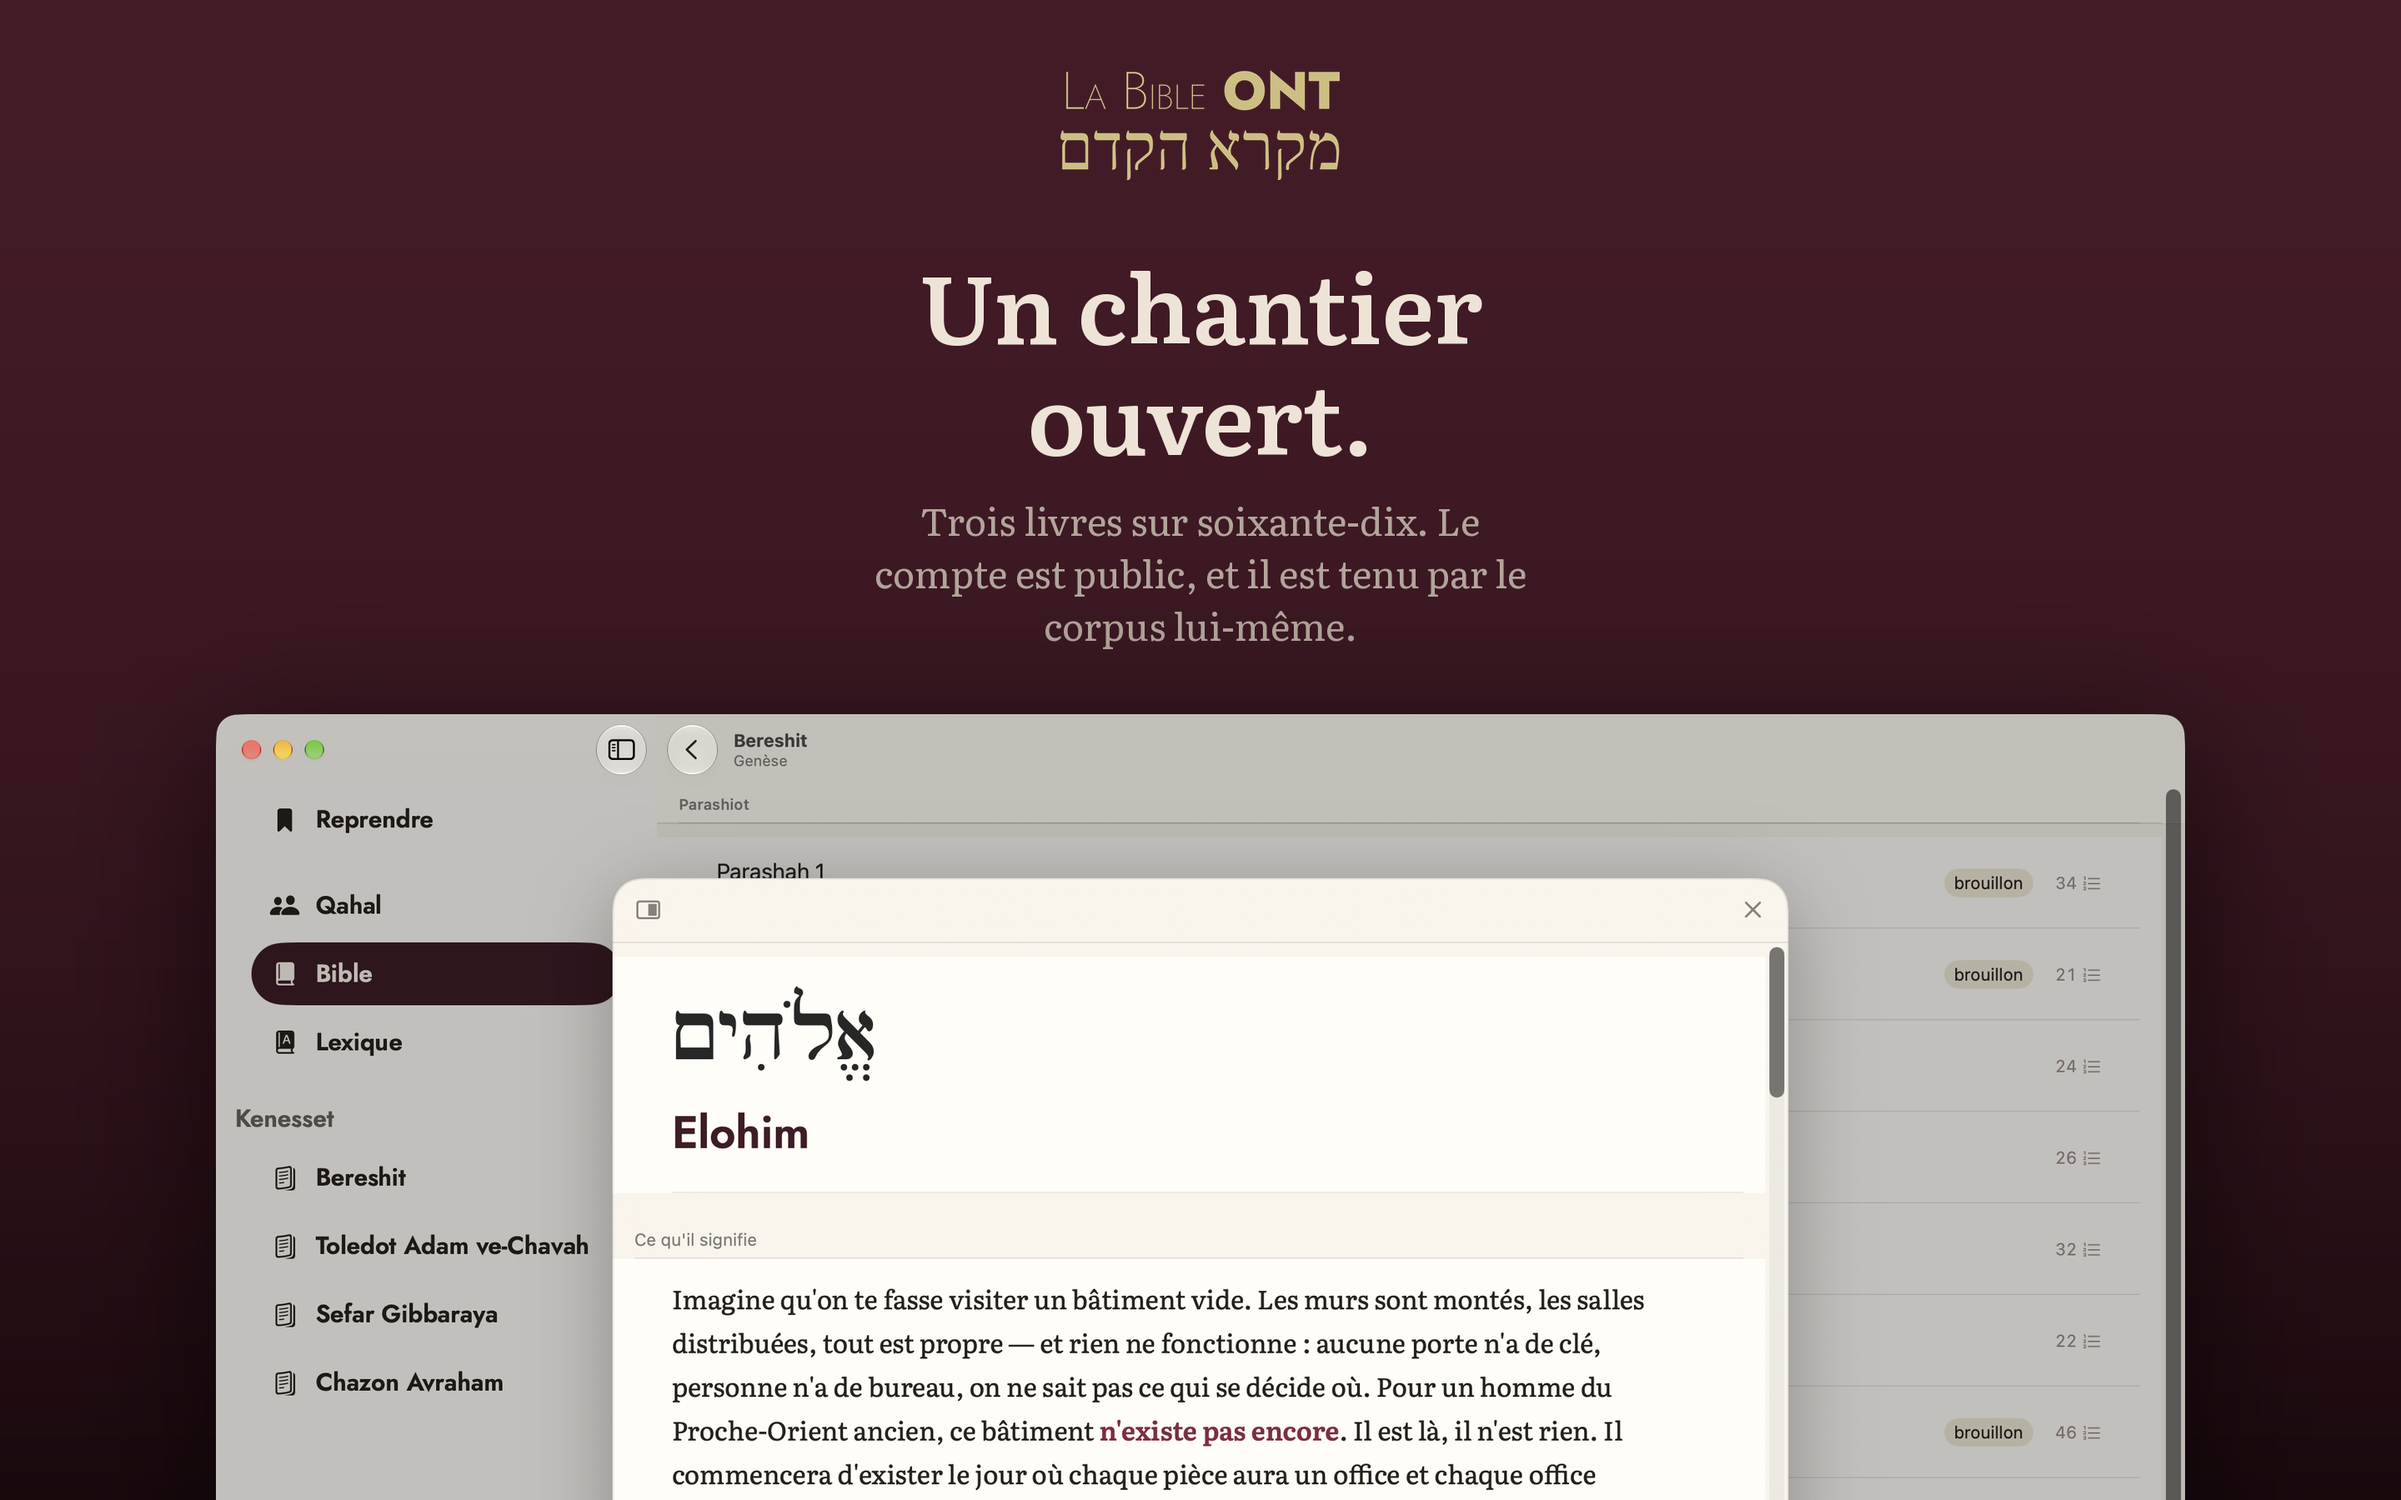
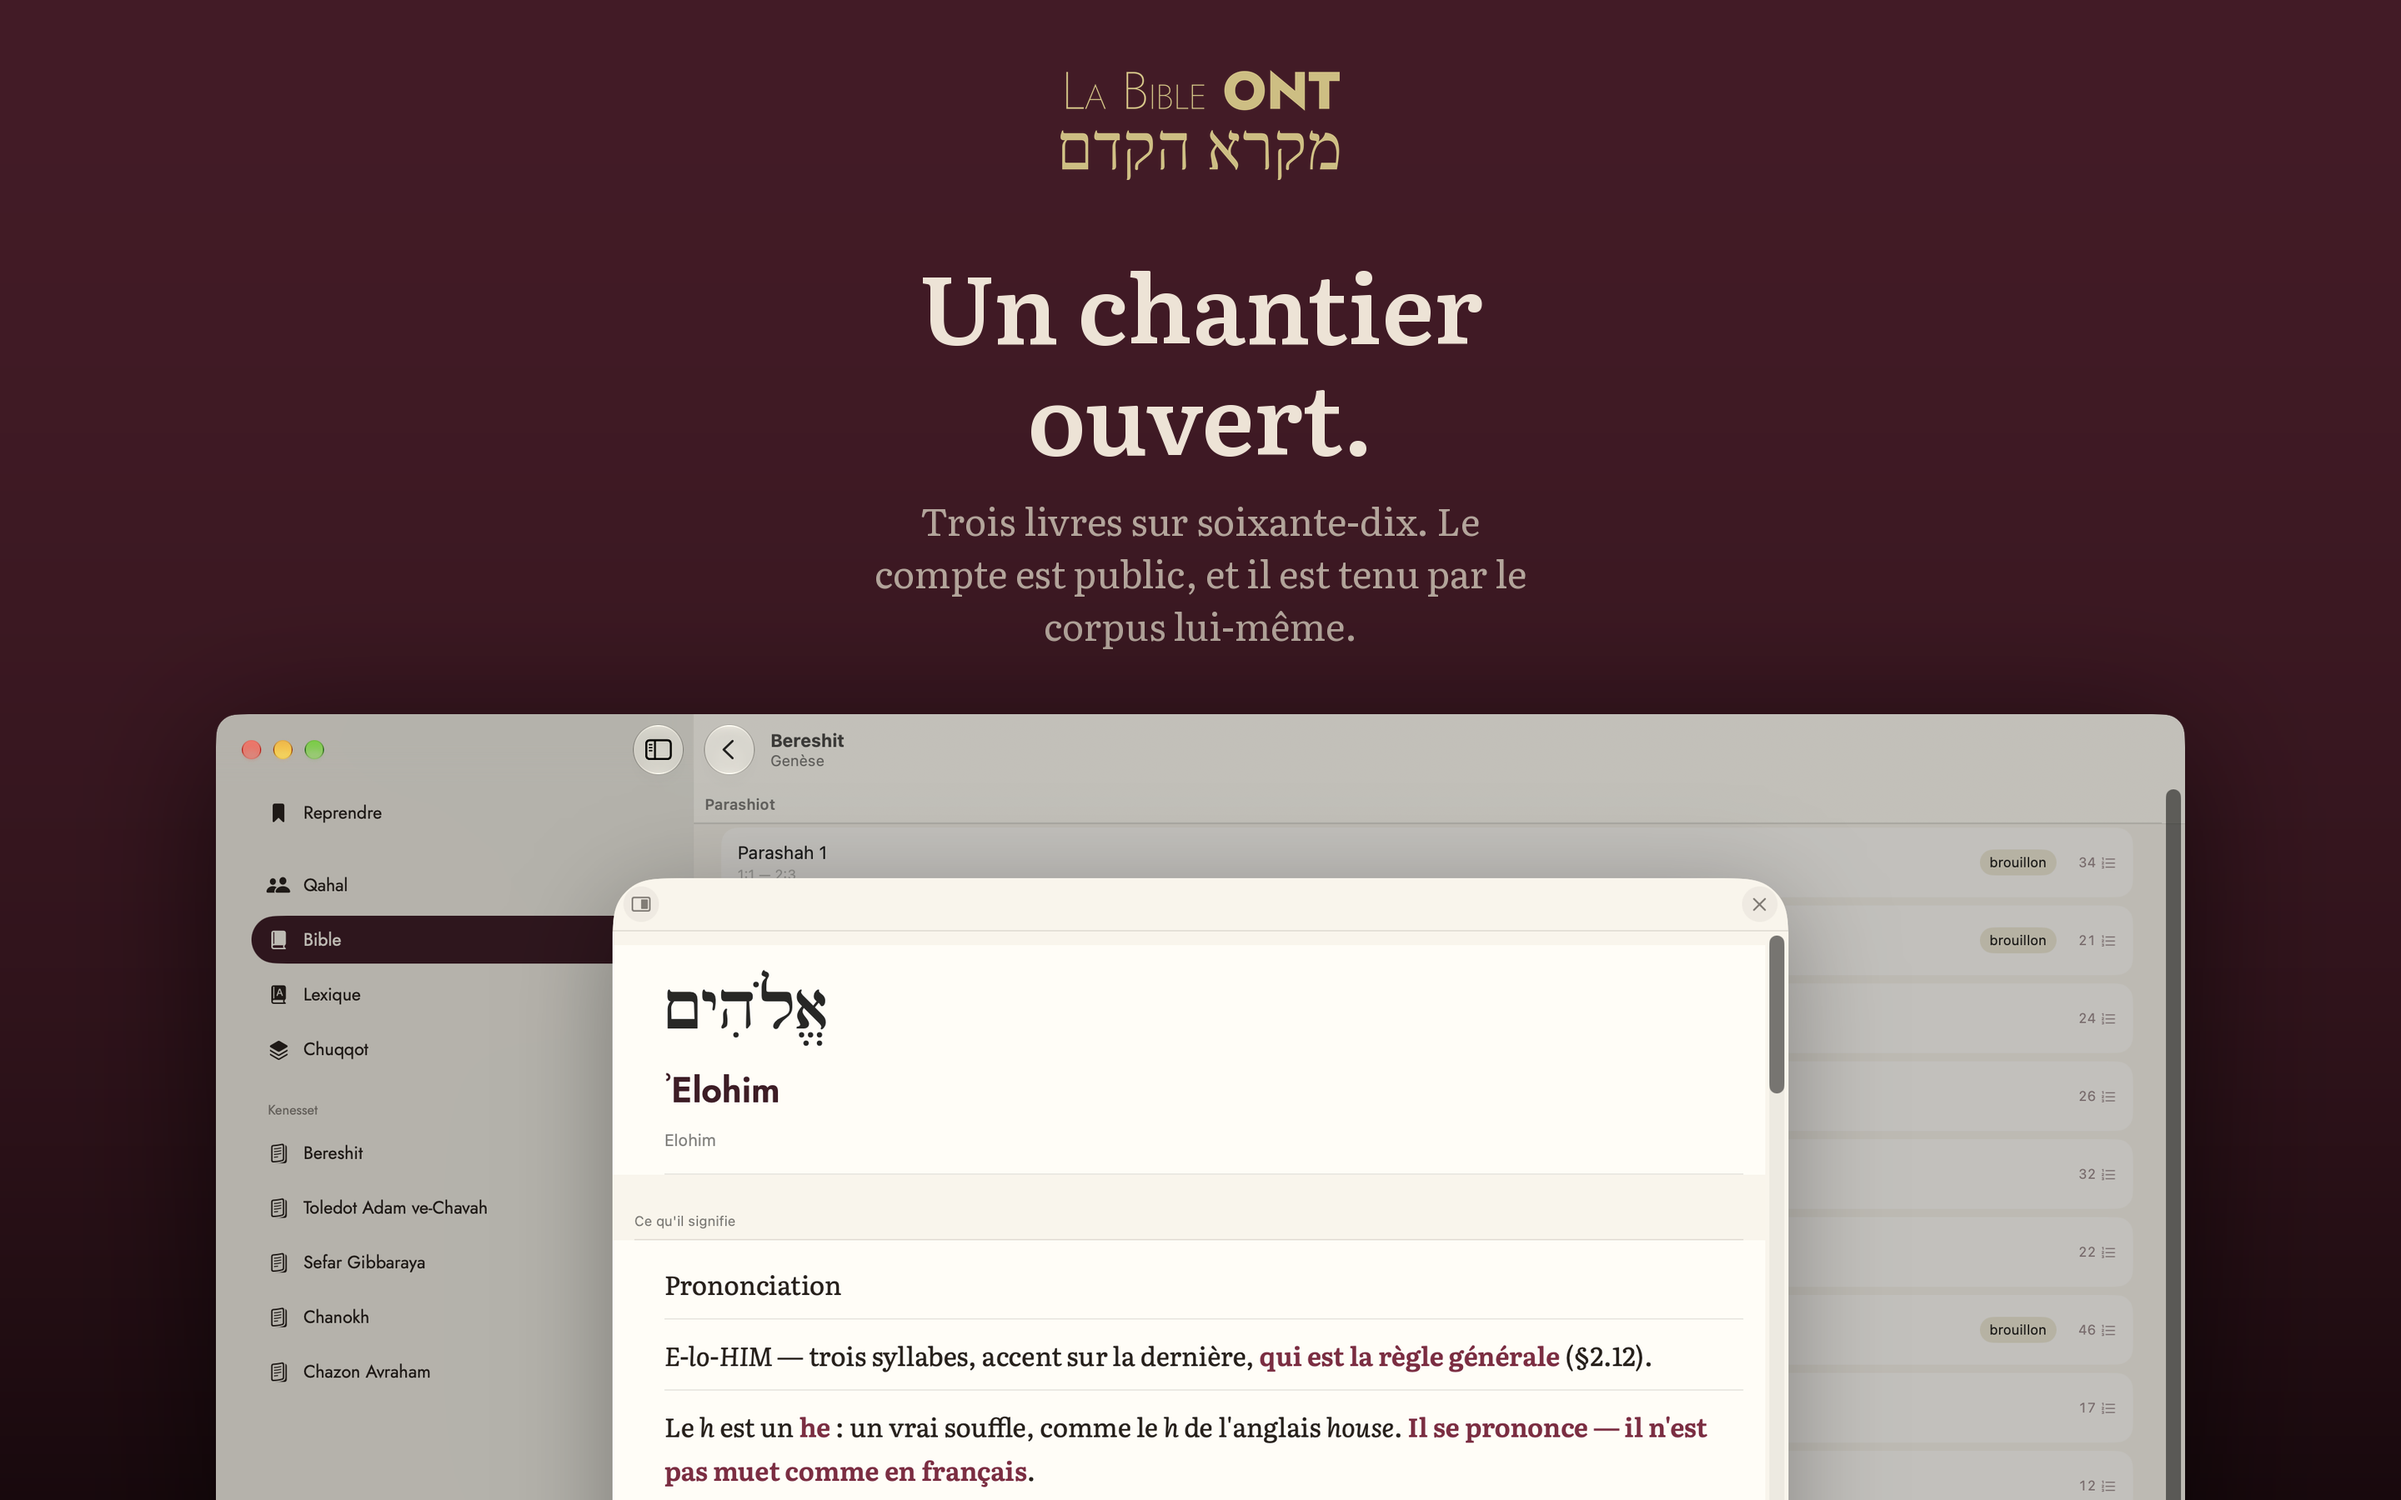
# Ouvrir la voie de la fiche Mac — quatre maillons, trouvés en la parcourant
La chaîne du Mac vers l'App Store s'arrêtait à la dernière marche, et la
marche avait quatre défauts, chacun invisible tant qu'on ne la montait
pas pour de vrai :

- fiche.yml ne posait jamais PLATEFORME : un dispatch ne poussait que
  la fiche iOS, et la garde de soumettre.py renvoyait vers un workflow
  qui ne savait pas faire ce qu'elle demandait. Entrée plateforme
  ajoutée (choix IOS/MAC_OS, défaut IOS — rien ne change à l'existant) ;
- les captures dataient du 31 août, d'avant la refonte entière —
  refaites sur l'interface actuelle, en Xcode stable ;
- la scène 1 dépendait de l'onglet restauré (la vitrine a montré le
  squelette de Chuqqot, vide) : -tab bible au lancement, par le domaine
  des arguments — et la barre latérale, restaurée repliée, s'impose
  ouverte en mode capture seulement (colonnes dans RacineMac) ;
- la scène 4 visait ont://term/elohim, clé morte depuis que le
  demi-anneau est signifiant (16 septembre) : la vitrine montrait la
  feuille « Terme non documenté » sans rougir. La clé est ʾelohim,
  %CA%BE dans l'URL.

Les quatre affiches ont été relues à l'œil, à taille réelle — le
contrôle de taille ne voit ni une feuille d'erreur ni un onglet vide,
il l'a prouvé deux fois aujourd'hui.

diff --git a/app/MacSources/RacineMac.swift b/app/MacSources/RacineMac.swift
@@ -64,7 +64,7 @@ struct RacineMac: View {
         // Dans une `VStack`, elle occupe une place réelle — rien ne peut plus
         // se retrouver derrière elle — et elle hérite du thème du lecteur.
         VStack(spacing: 0) {
-            NavigationSplitView {
+            NavigationSplitView(columnVisibility: $colonnes) {
                 BarreLateraleONT()
                     // **Aucun fond, aucun panneau : la barre est celle du
                     // système.** Trois constructions à la main ont été
@@ -132,6 +132,19 @@ struct RacineMac: View {
 
     /// Les modales que les vues déposent, et que cette racine dessine.
     @State private var feuilles = ONTFeuilles()
+
+    /// La visibilité des colonnes — imposée ouverte **en mode capture** seulement.
+    ///
+    /// AppKit restaure l'état replié/déplié de la barre d'une session à
+    /// l'autre, et la vitrine de l'App Store en dépendait sans le savoir : le
+    /// 17 septembre 2026, les captures ont montré une barre repliée parce que
+    /// la dernière session de travail l'avait laissée ainsi. Le mode capture
+    /// est déjà un mode à part — taille de fenêtre forcée, restauration
+    /// coupée — ; la barre ouverte en fait partie : c'est elle qui montre la
+    /// navigation. En usage normal, `.automatic` laisse le système et la
+    /// restauration décider, comme avant.
+    @State private var colonnes: NavigationSplitViewVisibility =
+        UserDefaults.standard.string(forKey: "tailleDeCapture") != nil ? .all : .automatic
 
     /// La largeur d'ouverture de la barre latérale, en points.
     ///
